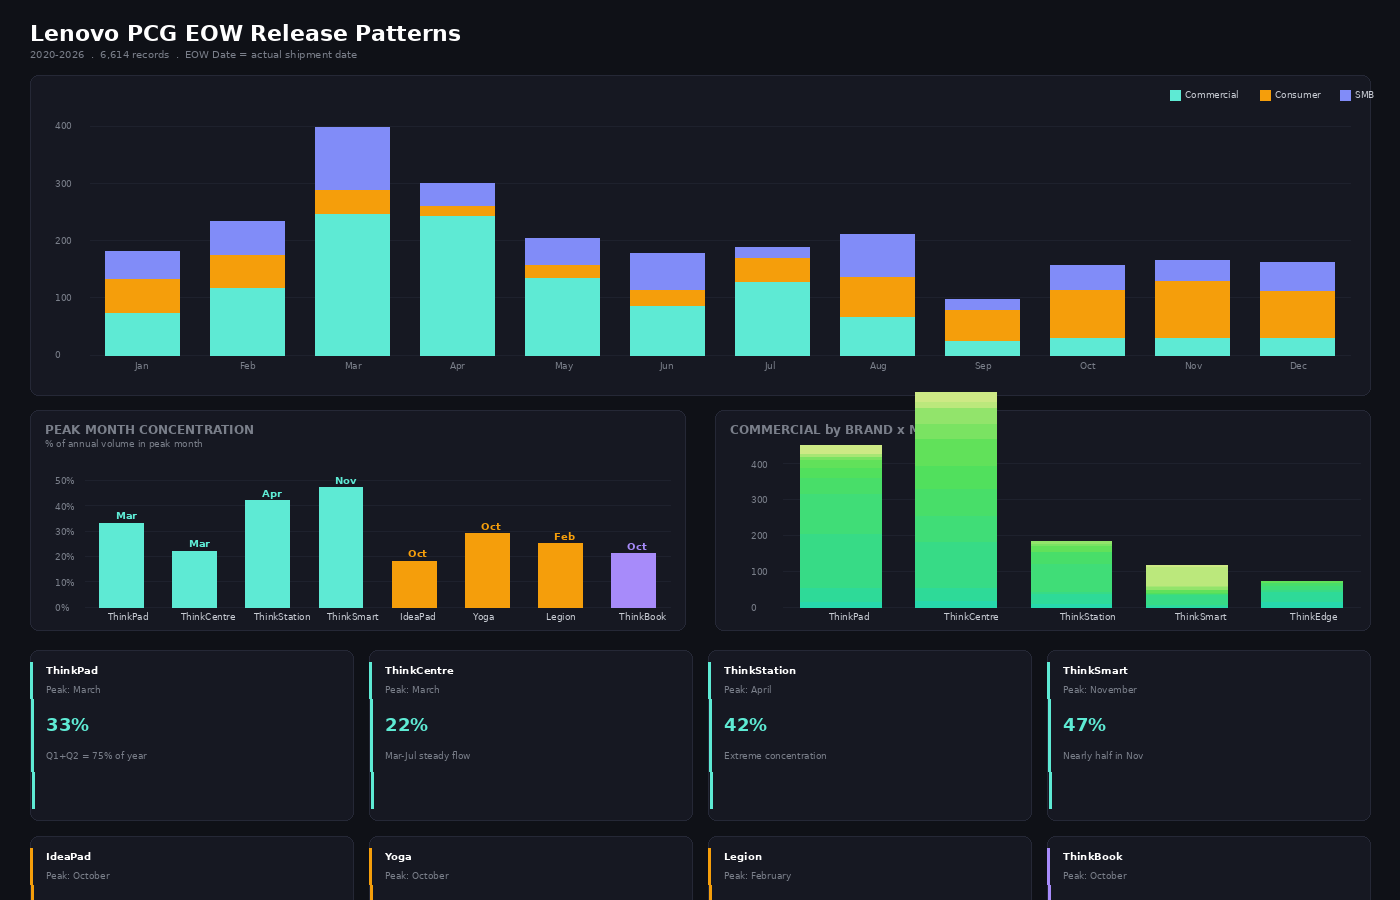
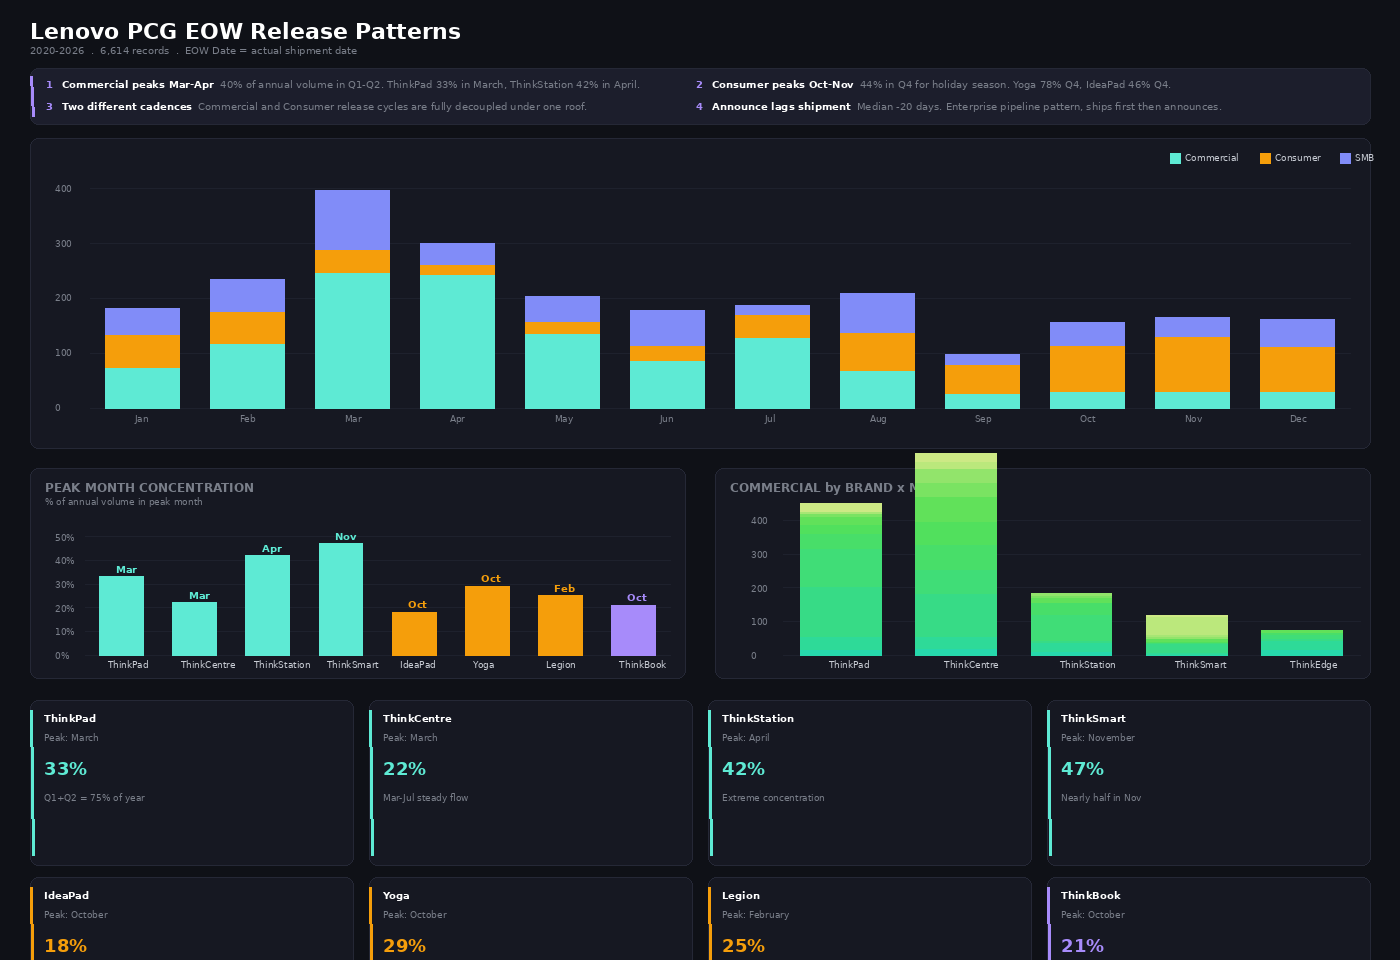
docs: add key takeaways highlight box to PCG release patterns chart

diff --git a/GPS_Cost_Pricing_Workbench/docs/PCG_Release_Patterns.html b/GPS_Cost_Pricing_Workbench/docs/PCG_Release_Patterns.html
@@ -64,6 +64,28 @@
 
   .legend-row { display: flex; gap: 18px; margin-top: 8px; font-size: 0.72rem; color: var(--text-dim); }
   .legend-dot { display: inline-block; width: 10px; height: 10px; border-radius: 2px; margin-right: 5px; vertical-align: middle; }
+
+  .key-takeaways {
+    display: grid;
+    grid-template-columns: 1fr 1fr;
+    gap: 10px 20px;
+    background: linear-gradient(135deg, #1a1d2e 0%, #1f2237 100%);
+    border: 1px solid var(--border);
+    border-left: 3px solid #a78bfa;
+    border-radius: 10px;
+    padding: 16px 22px;
+    margin-bottom: 20px;
+  }
+  .kw-item {
+    display: flex;
+    gap: 10px;
+    align-items: flex-start;
+    font-size: 0.78rem;
+    color: var(--text);
+    line-height: 1.5;
+  }
+  .kw-item strong { color: #fff; }
+  .kw-icon { font-size: 0.9rem; flex-shrink: 0; margin-top: 1px; }
 </style>
 </head>
 <body>
@@ -72,6 +94,13 @@
   <h1>Lenovo PCG EOW Release Patterns</h1>
   <div class="subtitle">2020–2026 · 6,614 records · EOW Date = actual shipment date</div>
 </header>
+
+<div class="key-takeaways">
+  <div class="kw-item"><span class="kw-icon">❶</span><span><strong>Commercial peaks Mar–Apr</strong> — 40% of annual volume in Q1–Q2. ThinkPad (33% in March), ThinkStation (42% in April), ThinkCentre (22% in March).</span></div>
+  <div class="kw-item"><span class="kw-icon">❷</span><span><strong>Consumer peaks Oct–Nov</strong> — 44% in Q4 for holiday season. Yoga (78% Q4), IdeaPad (46% Q4).</span></div>
+  <div class="kw-item"><span class="kw-icon">❸</span><span><strong>Two completely different cadences</strong> — Commercial and Consumer release cycles are fully decoupled under one roof.</span></div>
+  <div class="kw-item"><span class="kw-icon">❹</span><span><strong>Announce lags shipment</strong> — Median −20 days (ships first, announces later). Enterprise pipeline pattern, not consumer-style launch.</span></div>
+</div>
 
 <div class="grid grid-3">
   <div class="card full">
